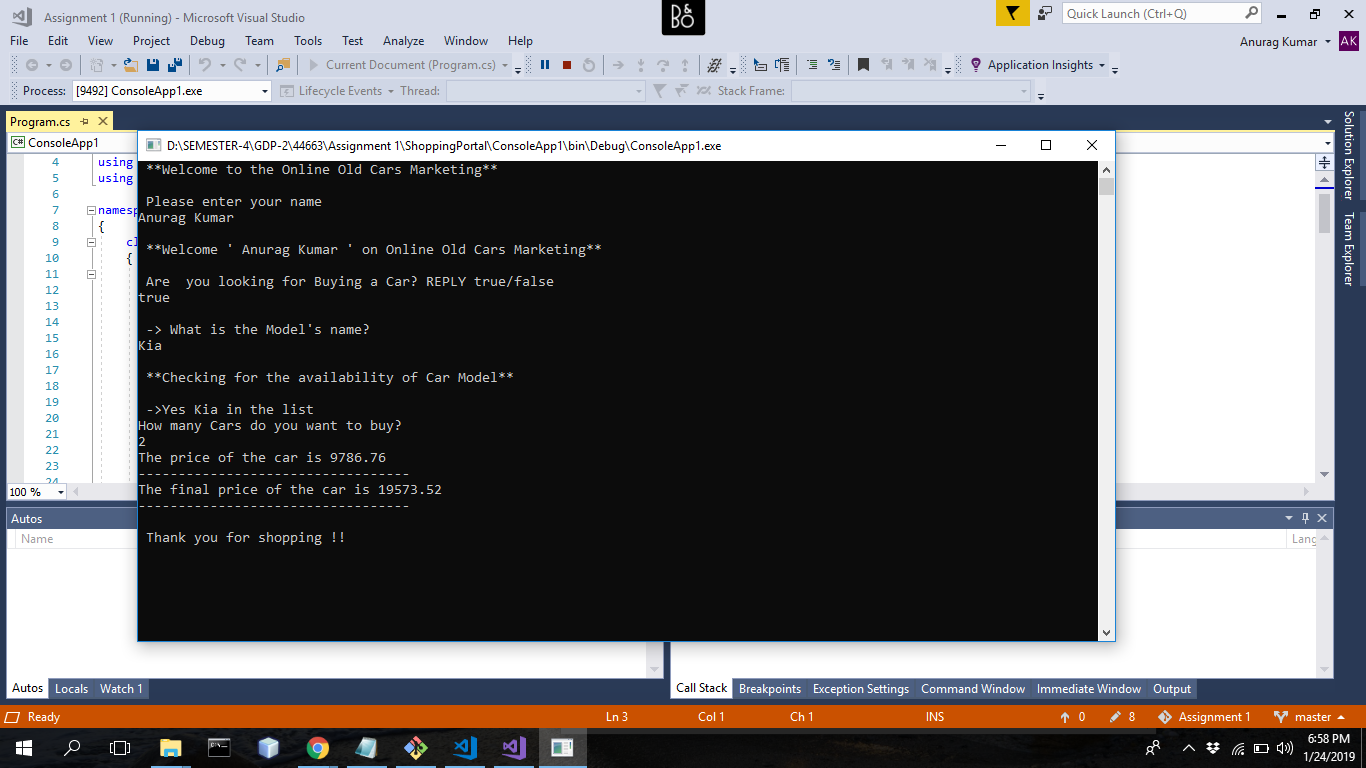
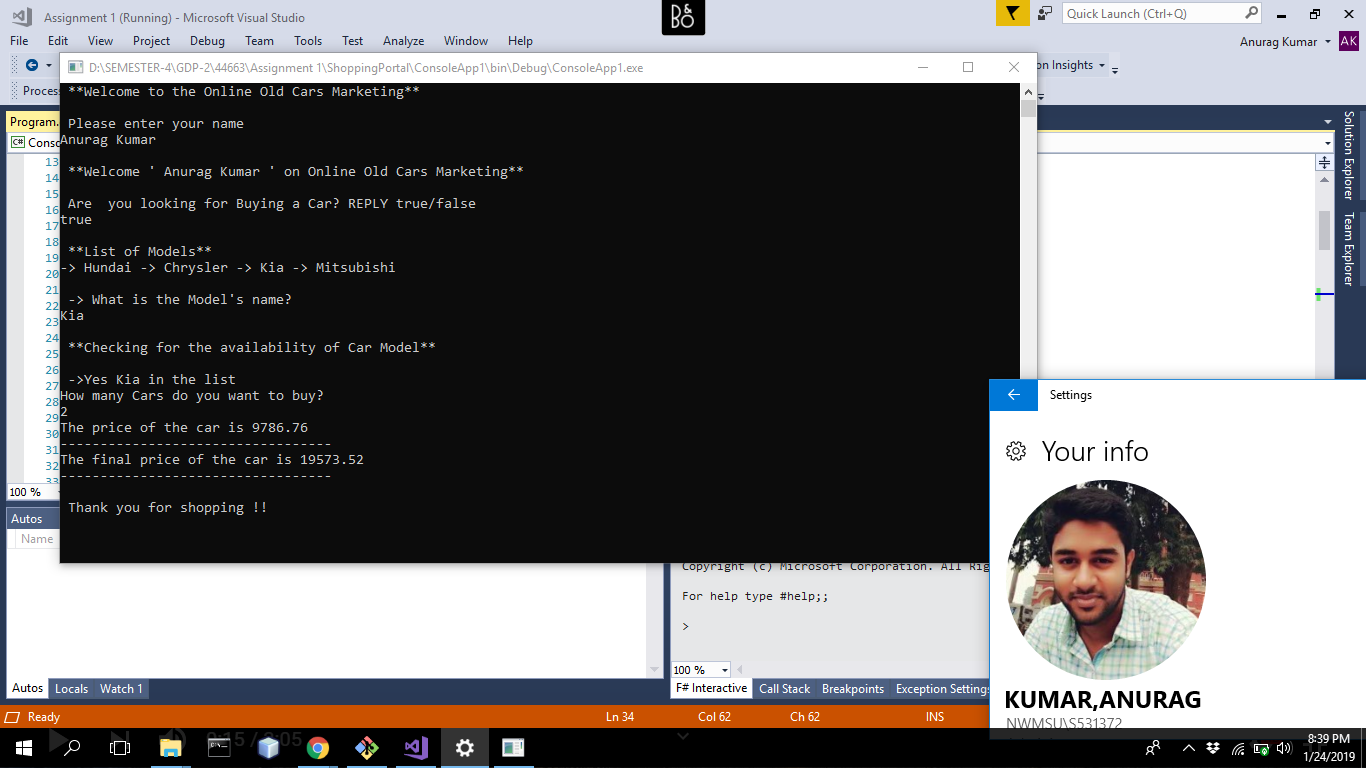
third commit

diff --git a/ShoppingPortal/ConsoleApp1/Program.cs b/ShoppingPortal/ConsoleApp1/Program.cs
@@ -31,6 +31,8 @@ namespace ConsoleApp1
               
                 while (check != 'N')
                 {
+                     Console.WriteLine("\n **List of Models**");
+                   Console.WriteLine("-> Hundai -> Chrysler -> Kia -> Mitsubishi");
                     Console.WriteLine("\n -> What is the Model's name? ");
                     carmodel = Console.ReadLine();
                     Console.WriteLine("\n **Checking for the availability of Car Model**");

diff --git a/README.md b/README.md
@@ -1,5 +1,10 @@
+Welcome to the Online Old Car Marketing
 
+To run the program follow the path: ShoppingPortal\ConsoleApp1\bin\Debug\ConsoleApp1.exe
+
+Source Code Screenshot 
 ![alt text](./pic2.png)
 
+Console App Screenshot
 ![alt text](./pic1.png)
 
